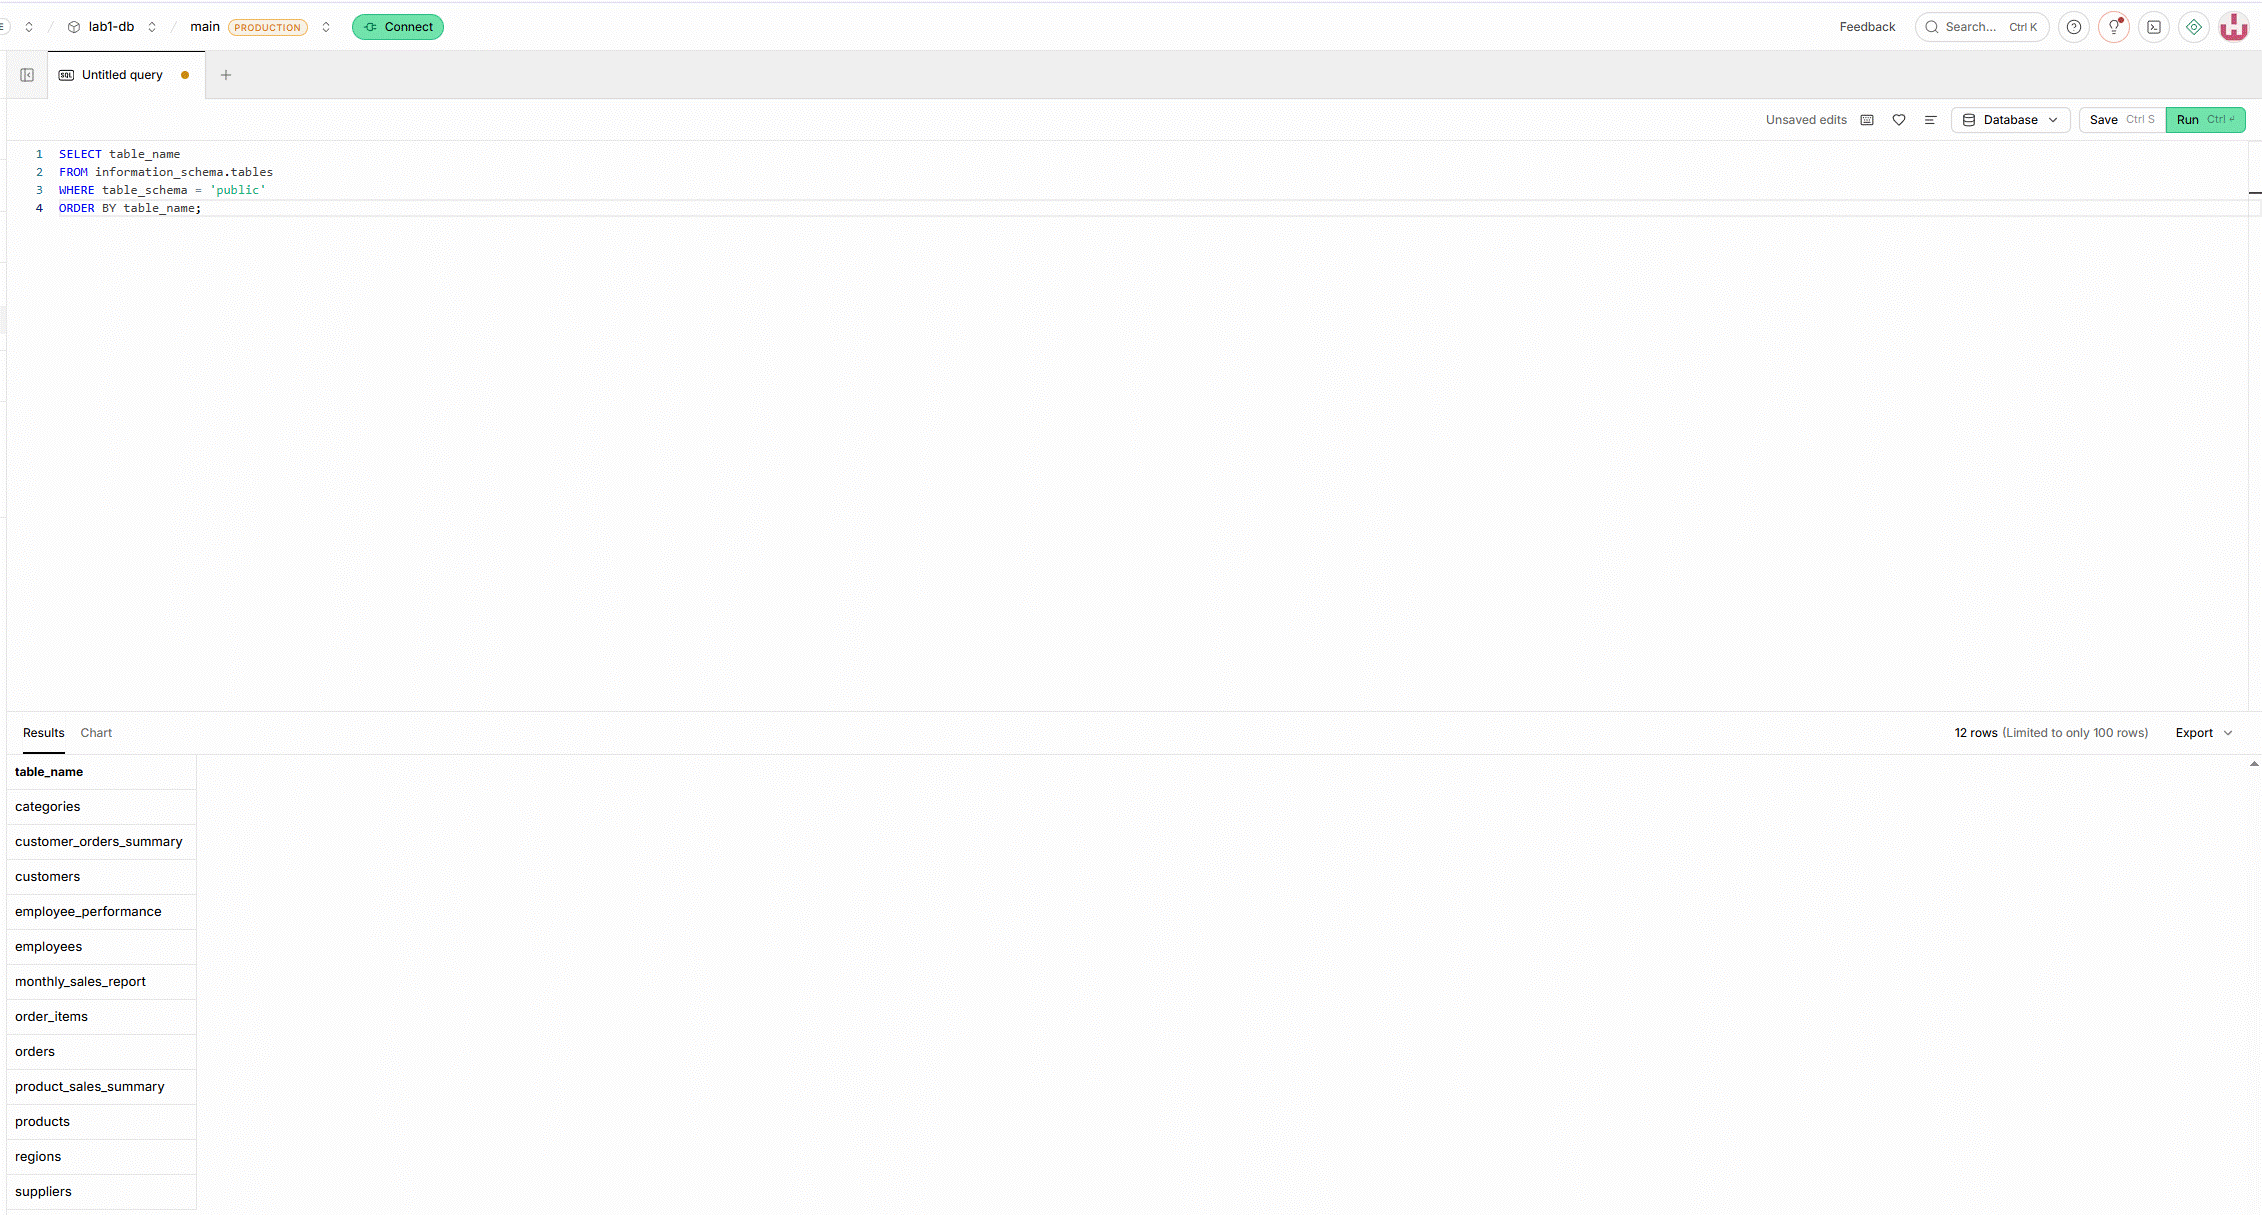
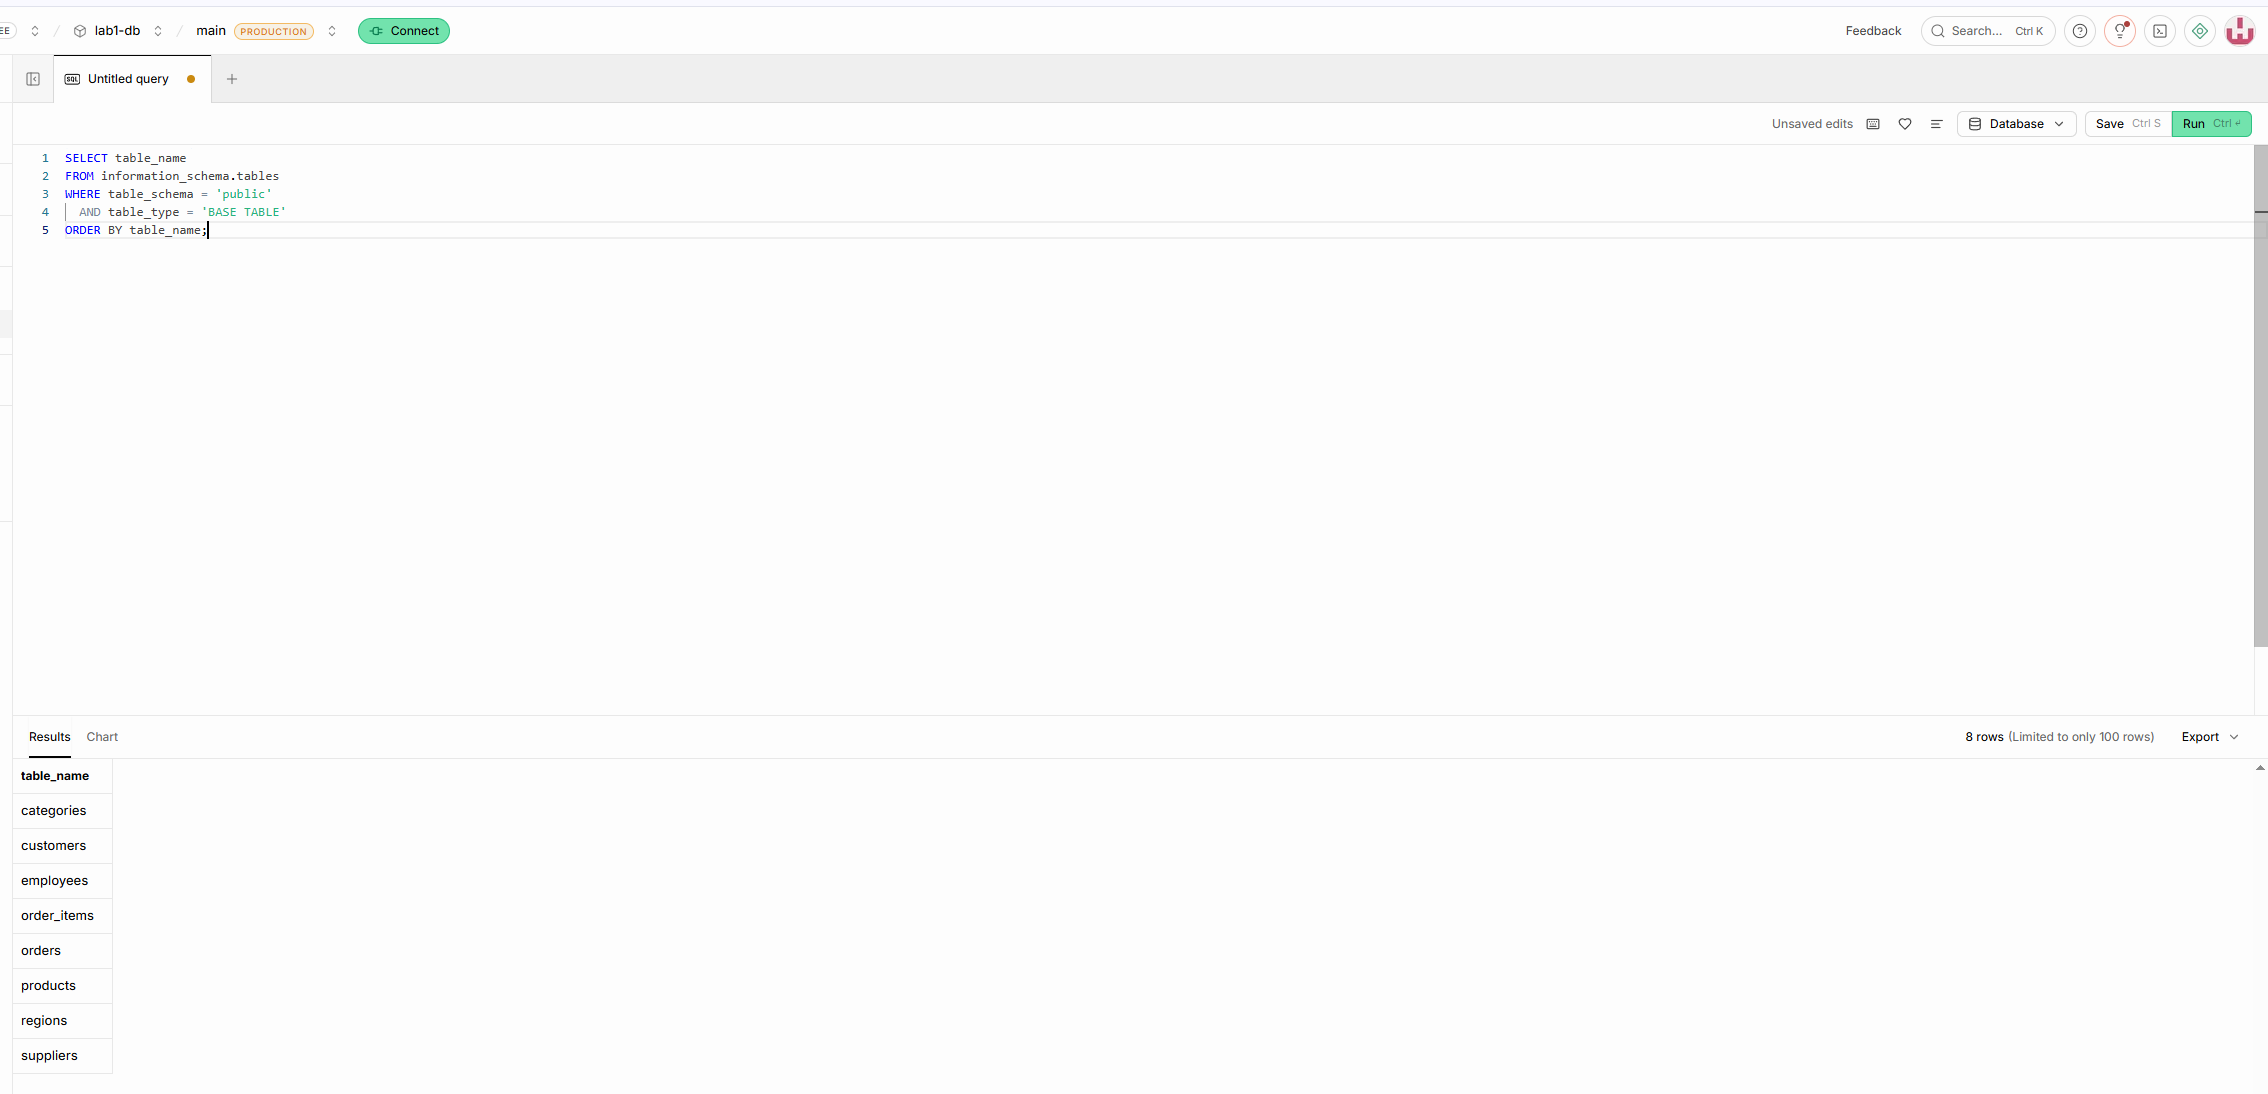
update

diff --git a/lab01-report.md b/lab01-report.md
@@ -11,14 +11,15 @@
 ### Дослідження структури бази даних
 
 ```sql
--- Отримати список усіх таблиць у публічній схемі бази даних
+-- Отримати список усіх таблиць (без службових view) у публічній схемі бази даних
 SELECT table_name
 FROM information_schema.tables
 WHERE table_schema = 'public'
+  AND table_type = 'BASE TABLE'
 ORDER BY table_name;
 ```
 
-Результат: У базі даних створено 8 основних таблиць: categories, customers, employees, order_items, orders, products, regions, suppliers.
+Результат: У базі даних створено 8 основних таблиць: categories, customers, employees, order_items, orders, products, regions, suppliers. Окрім них, у схемі є ще 4 аналітичні view (customer_orders_summary, employee_performance, monthly_sales_report, product_sales_summary) — вони виключені фільтром table_type = 'BASE TABLE', оскільки не є фізичними таблицями.
 
 ![Список таблиць](<screenshots/БД ЗАПИТИ 1/Отримати список усіх таблиць у публічній схемі бази даних.png>)
 
